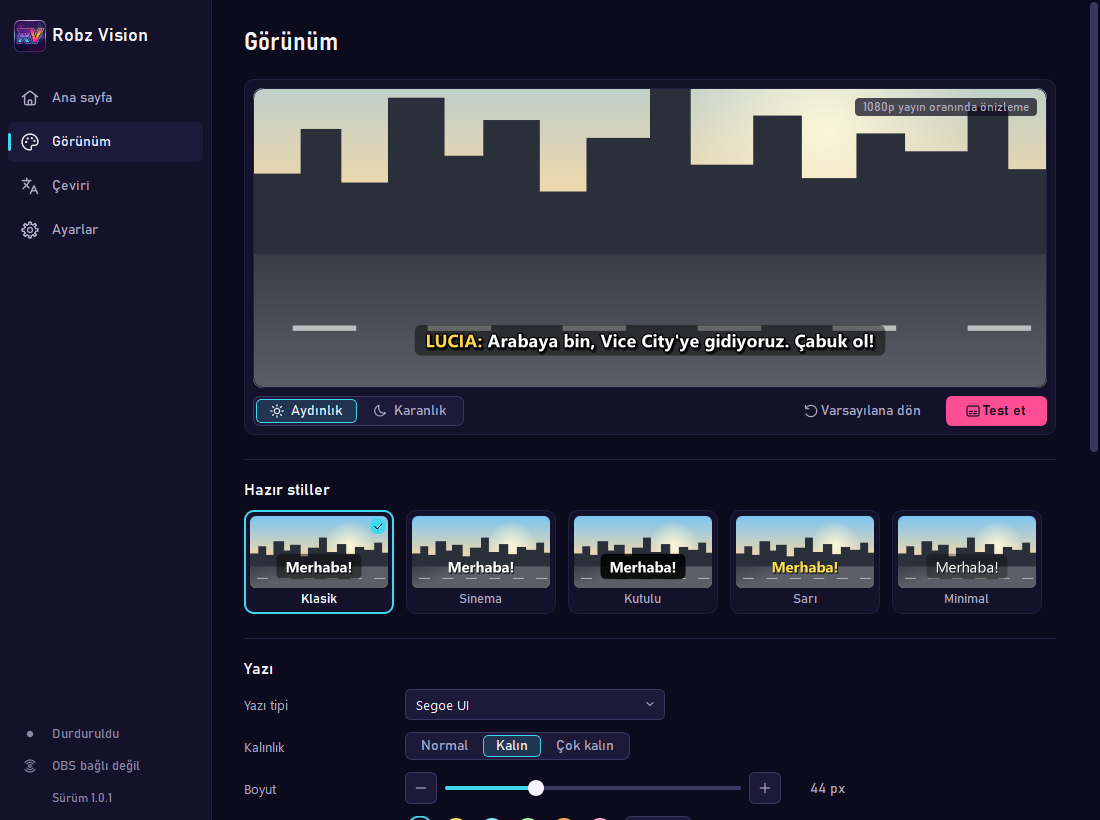
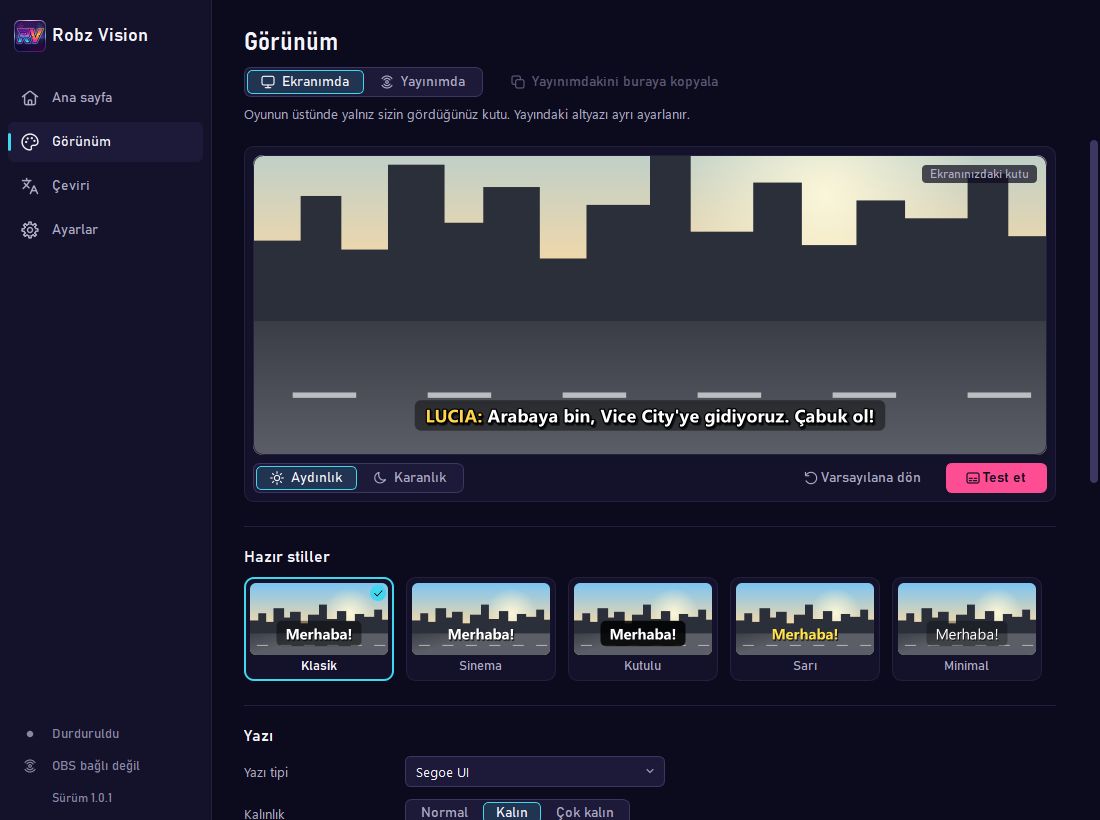
Belgeler ve site: Görünüm sayfasının yeni ekran görüntüsü
README ve sitedeki Görünüm görseli seçiciyi gösteriyor; sitenin özellik satırı ve açıklaması ayrı
ekran/yayın görünümünü anlatıyor. Görüntü sahte test sahnesinden, ekran yakalanmadan üretildi.

diff --git a/site/index.html b/site/index.html
@@ -739,7 +739,7 @@ code.inline {
           <div><dt>İki ayrı çıktı</dt><dd>Kendi ekranınızda taşıyıp boyutlandırabileceğiniz bir kutu, izleyicileriniz için bir OBS Tarayıcı Kaynağı. İkisinin konumu birbirinden bağımsızdır.</dd></div>
           <div><dt>Bölge ya da pencere</dt><dd>Altyazının çıktığı alanı fareyle seçersiniz. İsterseniz belirli bir uygulama penceresinden okursunuz; pencere başka pencerelerin arkasında kalsa da çalışır.</dd></div>
           <div><dt>Gereksiz iş yapmaz</dt><dd>Titreyen okumaları ayıklar, daha temiz bir okuma gelirse çeviriyi düzeltir. Konuşmacı adları çevrilmez, ayrı renkte gösterilir.</dd></div>
-          <div><dt>Görünüm</dt><dd>Beş hazır stil: Klasik, Sinema, Kutulu, Sarı, Minimal. Yazı tipi, boyut, renk, kenar, gölge ve arka plan ayarlanır; değişiklik ekrana ve OBS’e anında yansır.</dd></div>
+          <div><dt>Görünüm</dt><dd>Beş hazır stil: Klasik, Sinema, Kutulu, Sarı, Minimal. Yazı tipi, boyut, renk, kenar, gölge ve arka plan ayarlanır. Ekranınızdaki kutu ile yayındaki altyazı ayrı ayarlanabilir: örneğin ekranda küçük, yayında kutulu ve büyük. Değişiklik anında yansır.</dd></div>
           <div><dt>İsteğe bağlı motorlar</dt><dd>Ollama ile yerel bir dil modeli, kendi anahtarınızla Google Gemini ya da DeepL. Önce yerel çeviri görünür, daha iyi sonuç gelince yerine geçer.</dd></div>
           <div><dt>Kısayollar</dt><dd><kbd>Ctrl+Alt+T</kbd> başlatır ve durdurur, <kbd>Ctrl+Alt+H</kbd> çeviriyi gizler, <kbd>Ctrl+Alt+C</kbd> temizler. Sistem tepsisi, çeviri önbelleği ve baştan sona Türkçe arayüz.</dd></div>
         </dl>
@@ -754,8 +754,8 @@ code.inline {
             <figcaption>Ana sayfa: Başlat, bölge önizlemesi, son çeviri ve OCR ile çeviri süreleri.</figcaption>
           </figure>
           <figure class="tabpanel" role="tabpanel" id="panel-gorunum" aria-labelledby="tab-gorunum" hidden>
-            <a href="img/gorunum.webp"><img class="shot" src="img/gorunum.webp" width="1100" height="820" loading="lazy" decoding="async" alt="Görünüm sayfası: 1080p önizleme, beş hazır stil ve yazı ayarları"></a>
-            <figcaption>Görünüm: canlı önizleme, hazır stiller ve yazı ayarları.</figcaption>
+            <a href="img/gorunum.webp"><img class="shot" src="img/gorunum.webp" width="1100" height="820" loading="lazy" decoding="async" alt="Görünüm sayfası: Ekranımda ve Yayınımda seçicisi, canlı önizleme, beş hazır stil ve yazı ayarları"></a>
+            <figcaption>Görünüm: ekranınızdaki kutu ve yayındaki altyazı ayrı ayarlanır; canlı önizleme ve hazır stiller.</figcaption>
           </figure>
           <figure class="tabpanel" role="tabpanel" id="panel-ceviri" aria-labelledby="tab-ceviri" hidden>
             <a href="img/ceviri.webp"><img class="shot" src="img/ceviri.webp" width="1100" height="820" loading="lazy" decoding="async" alt="Çeviri sayfası: motor seçimi, yerel model durumu ve sözlük"></a>
